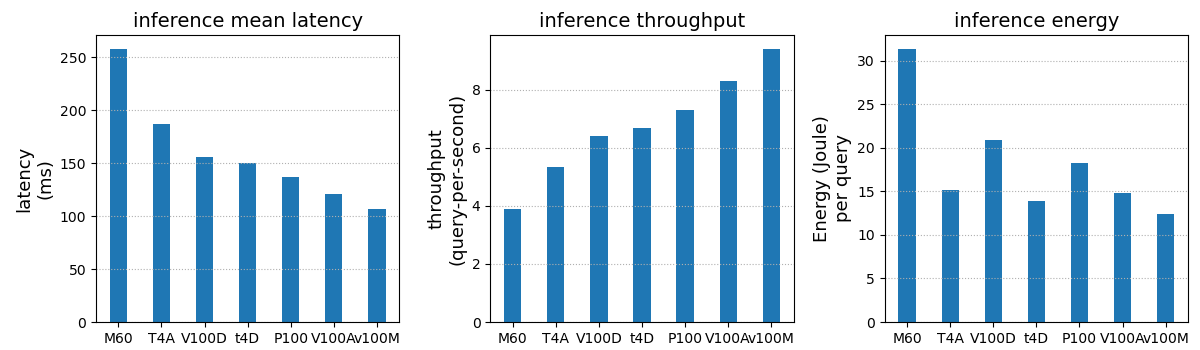
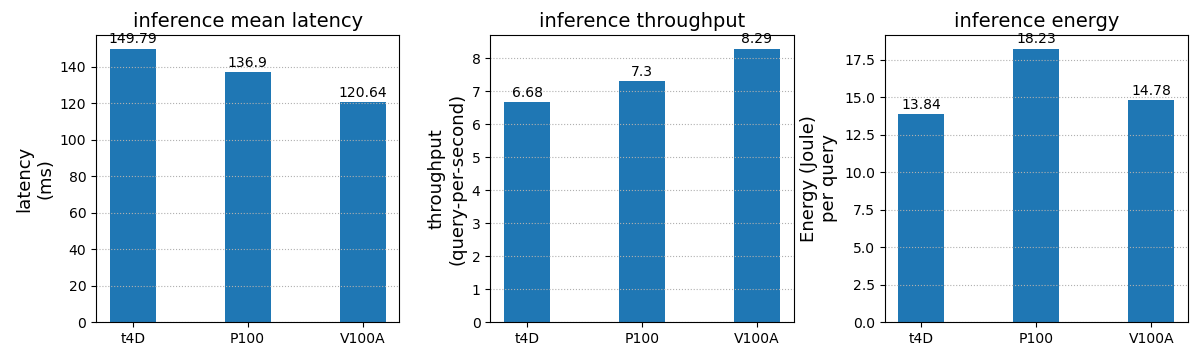
update

diff --git a/experiments/process.py b/experiments/process.py
@@ -8,8 +8,8 @@ import pandas
 import sys
 
 batch_size = '10'
-gpus = ['m60', 't4a', 'v100d', 't4d', 'p100', 'v100a', 'v100m'] # cpu node is c0191
-GPUs = ['M60', 'T4A', 'V100D', 't4D', 'P100', 'V100A', 'v100M']
+gpus = ['t4d', 'p100', 'v100a'] # cpu node is c0191
+GPUs = ['t4D', 'P100', 'V100A']
 #idle_pwr = [27, 60, 15]
 
 fig, axs = plt.subplots(1, 3, figsize=(12,3.5), gridspec_kw={'hspace': 0, 'wspace': 0.3, 'top': 0.9, 'left':0.08, 'right':0.99, 'bottom':0.08})
@@ -35,17 +35,31 @@ for i, gpu in enumerate(gpus):
     qps = 1000 / lat_mean
     qps_list.append(qps)
 
-axs[0].bar(x, lat_list, width=width) #TODO
+def autolabel(rects,ax):
+    """
+    Attach a text label above each bar displaying its height
+    """
+    for rect in rects:
+        height = rect.get_height()
+#        pdb.set_trace()
+        ax.text(rect.get_x() + rect.get_width()/2., 1.01*height,
+                '%s' % round(height,2),
+                ha='center', va='bottom')
+
+
+rect = axs[0].bar(x, lat_list, width=width) #TODO
 axs[0].set_xticks(x)
 axs[0].set_xticklabels(GPUs)
 axs[0].set_title('inference mean latency', fontsize=14)
 axs[0].set_ylabel('latency\n(ms)', fontsize=13)
+autolabel(rect, axs[0])
 
-axs[1].bar(x, qps_list, width=width) #TODO
+rect = axs[1].bar(x, qps_list, width=width) #TODO
 axs[1].set_xticks(x)
 axs[1].set_xticklabels(GPUs)
 axs[1].set_title('inference throughput', fontsize=14)
 axs[1].set_ylabel('throughput\n(query-per-second)', fontsize=13)
+autolabel(rect, axs[1])
 
 energy_list = []
 column = ' power.draw [W]'
@@ -61,14 +75,16 @@ for i, gpu in enumerate(gpus):
     time = lat_list[i]/1000 #second
     energy_list.append(pwr*time)
 
-axs[2].bar(x, energy_list, width)
+rect = axs[2].bar(x, energy_list, width)
 axs[2].set_xticks(x)
 axs[2].set_xticklabels(GPUs)
 axs[2].set_title('inference energy', fontsize=14)
 axs[2].set_ylabel('Energy (Joule)\nper query', fontsize=13)
+autolabel(rect, axs[2])
 
 for ax in axs:
     ax.grid(which='major', axis='y', ls='dotted')
+
 
 plt.savefig(f'plots/batch_{batch_size}.png')
 
